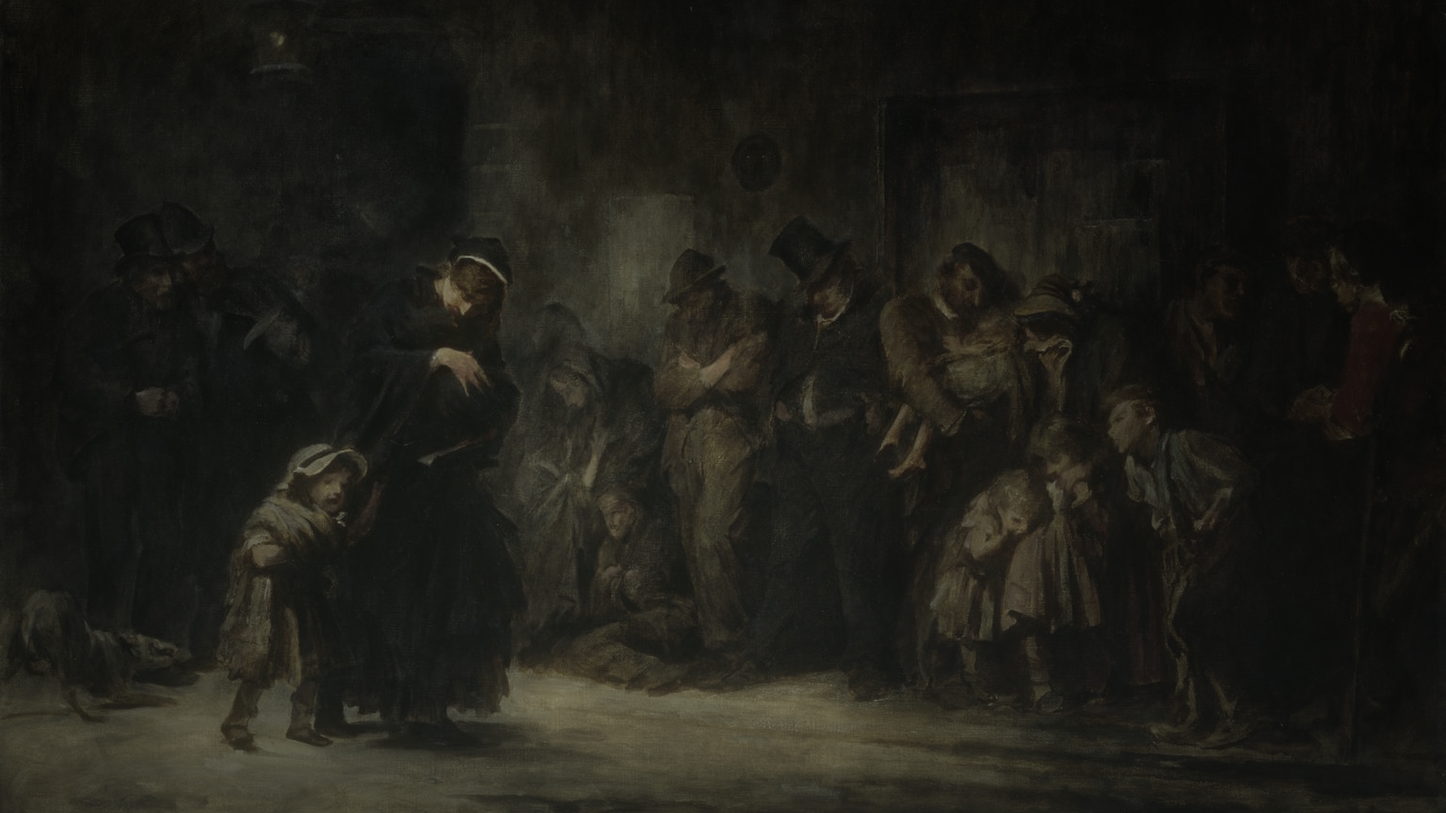
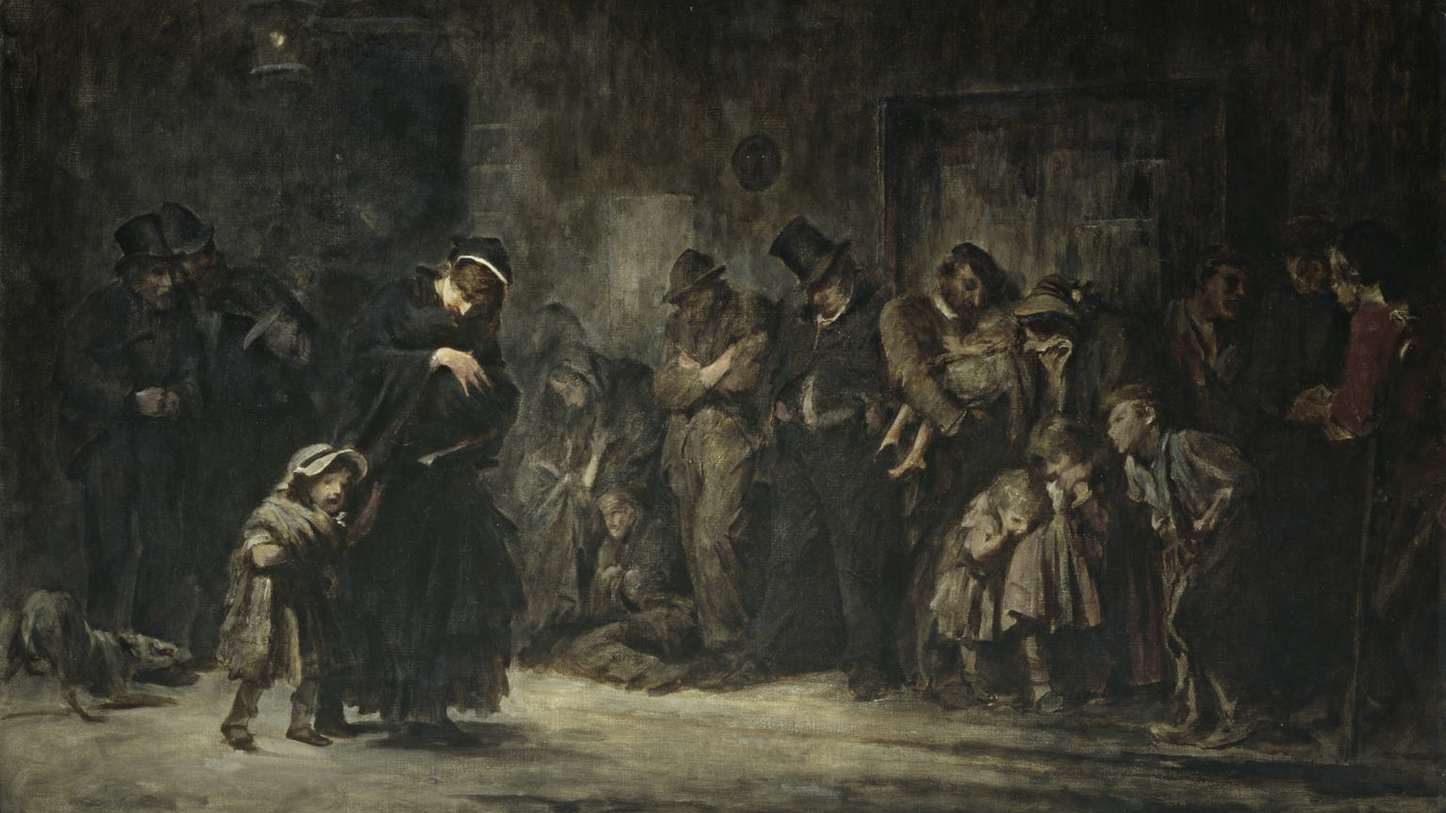
art: lift the Act I and Act IV fight backgrounds
Under the fight's scrim both were all but black (mean luminance 30 and 30
against 61/42 for Acts II/III). The street and the hall are now graded a
stop brighter with opened shadows, local contrast and a soft shoulder
(mean 53 and 55); the scrim and Acts II, III and V are unchanged.

diff --git a/assets/art/backgrounds/make_backgrounds.py b/assets/art/backgrounds/make_backgrounds.py
@@ -64,6 +64,16 @@ def light(cx, cy, r, floor=0.25, p=1.6):
     d = np.sqrt(((xx - cx * W) / W) ** 2 + ((yy - cy * H) / H * 0.8) ** 2) / r
     return (floor + (1 - floor) * np.clip(1 - d, 0, 1) ** p)[..., None]
 
+def shoulder(a, knee=0.75):
+    """Linear up to the knee, then rolled off towards 1 instead of clipped."""
+    over = np.maximum(a - knee, 0)
+    return np.minimum(a, knee) + (1 - knee) * (1 - np.exp(-over / (1 - knee)))
+
+def clarity(a, amount, radius=24):
+    """Local contrast: each pixel pushed away from its blurred surroundings (a large-radius unsharp mask)."""
+    soft = np.stack([cv2.GaussianBlur(a[..., c], (0, 0), radius) for c in range(3)], -1)
+    return a + (a - soft) * amount
+
 def duotone(a, dark, light_, gamma=1.0):
     l = (a @ np.array([0.3, 0.59, 0.11], np.float32))[..., None] ** gamma
     return np.array(dark) / 255 * (1 - l) + np.array(light_) / 255 * l
@@ -78,7 +88,10 @@ def act1():
     a = a + arr(glow)[..., :1] * np.array([0.9, 0.7, 0.35]) * 0.55
     fog = np.linspace(0, 1, H, dtype=np.float32)[:, None, None] ** 2 * 0.18
     a = a * (1 - fog) + np.array([0.45, 0.5, 0.48]) * fog
-    return a * light(0.42, 0.55, 0.75, 0.35)
+    a = a * light(0.42, 0.55, 0.78, 0.45)
+    # lifted (playtest 2026-11-25: under the fight's scrim the street was all but black): the shadows opened
+    # up by a gamma, the whole a stop brighter, the lamp light kept off white by a soft shoulder
+    return shoulder(clarity(a ** 0.9 * 1.3, 0.5))
 
 def act2():
     a = arr(crop169(Image.open(SRC / '2g.jpg'), 0.5, 1.06))
@@ -96,13 +109,16 @@ def act3():
 def act4():
     a = arr(crop169(abu_simbel_without_people(), 0.62))
     a = arr(ImageEnhance.Color(img(a)).enhance(0.8))
-    a = a ** 1.25
+    a = a ** 1.15
     # the only light comes from the doorway at the far end; the hall falls into torch-dark round it
     # the retouched floor at the lower left sinks into shadow
     yy, xx = np.mgrid[0:H, 0:W].astype(np.float32)
-    corner = np.clip(1 - np.sqrt(((xx / W) / 0.45) ** 2 + ((1 - yy / H) / 0.6) ** 2), 0, 1)[..., None]
+    corner = np.clip(1 - np.sqrt(((xx / W) / 0.55) ** 2 + ((1 - yy / H) / 0.6) ** 2), 0, 1)[..., None] ** 0.8
     a = a * (1 - corner * 0.85)
-    return a * light(0.42, 0.5, 0.68, 0.26, 1.2)
+    a = a * light(0.42, 0.5, 0.72, 0.38, 1.2)
+    # lifted (playtest 2026-11-25: under the fight's scrim the hall was a brown murk): the pillars a stop and
+    # a half brighter, the doorway kept off white by a soft shoulder
+    return shoulder(clarity(a ** 0.95 * 1.35, 1.1))
 
 def act5():
     im = Image.open(SRC / '5f.jpg')
